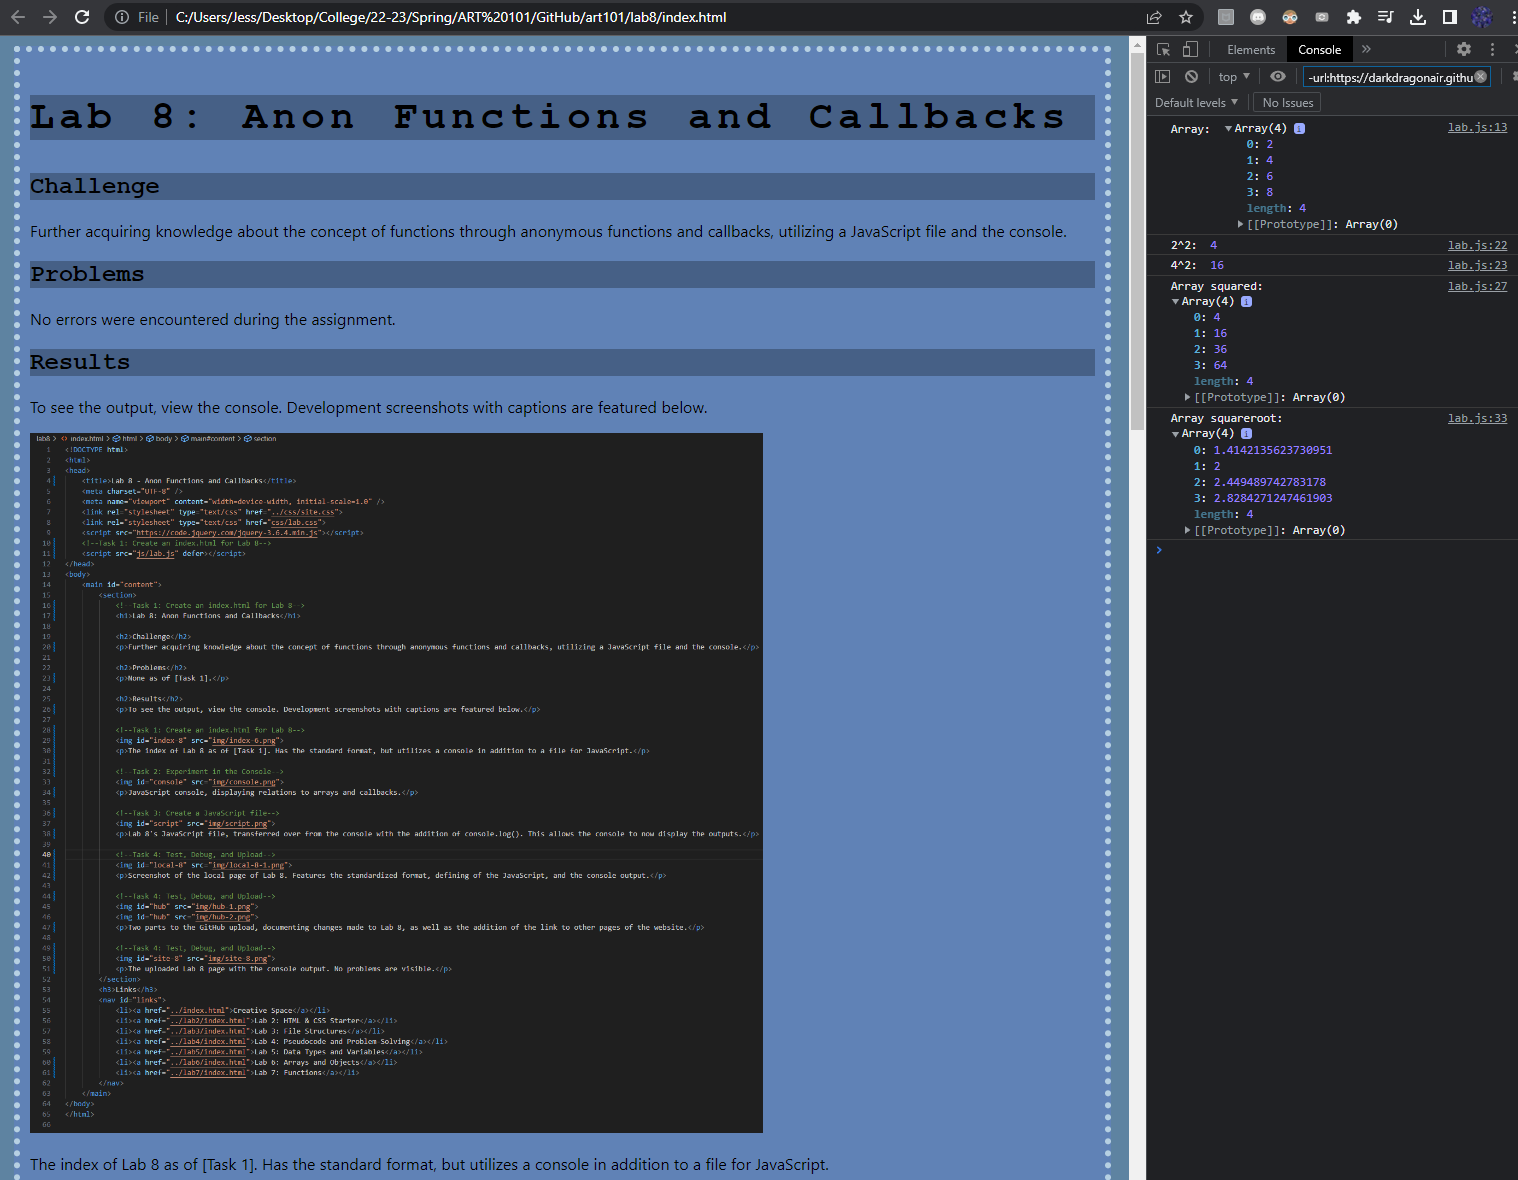
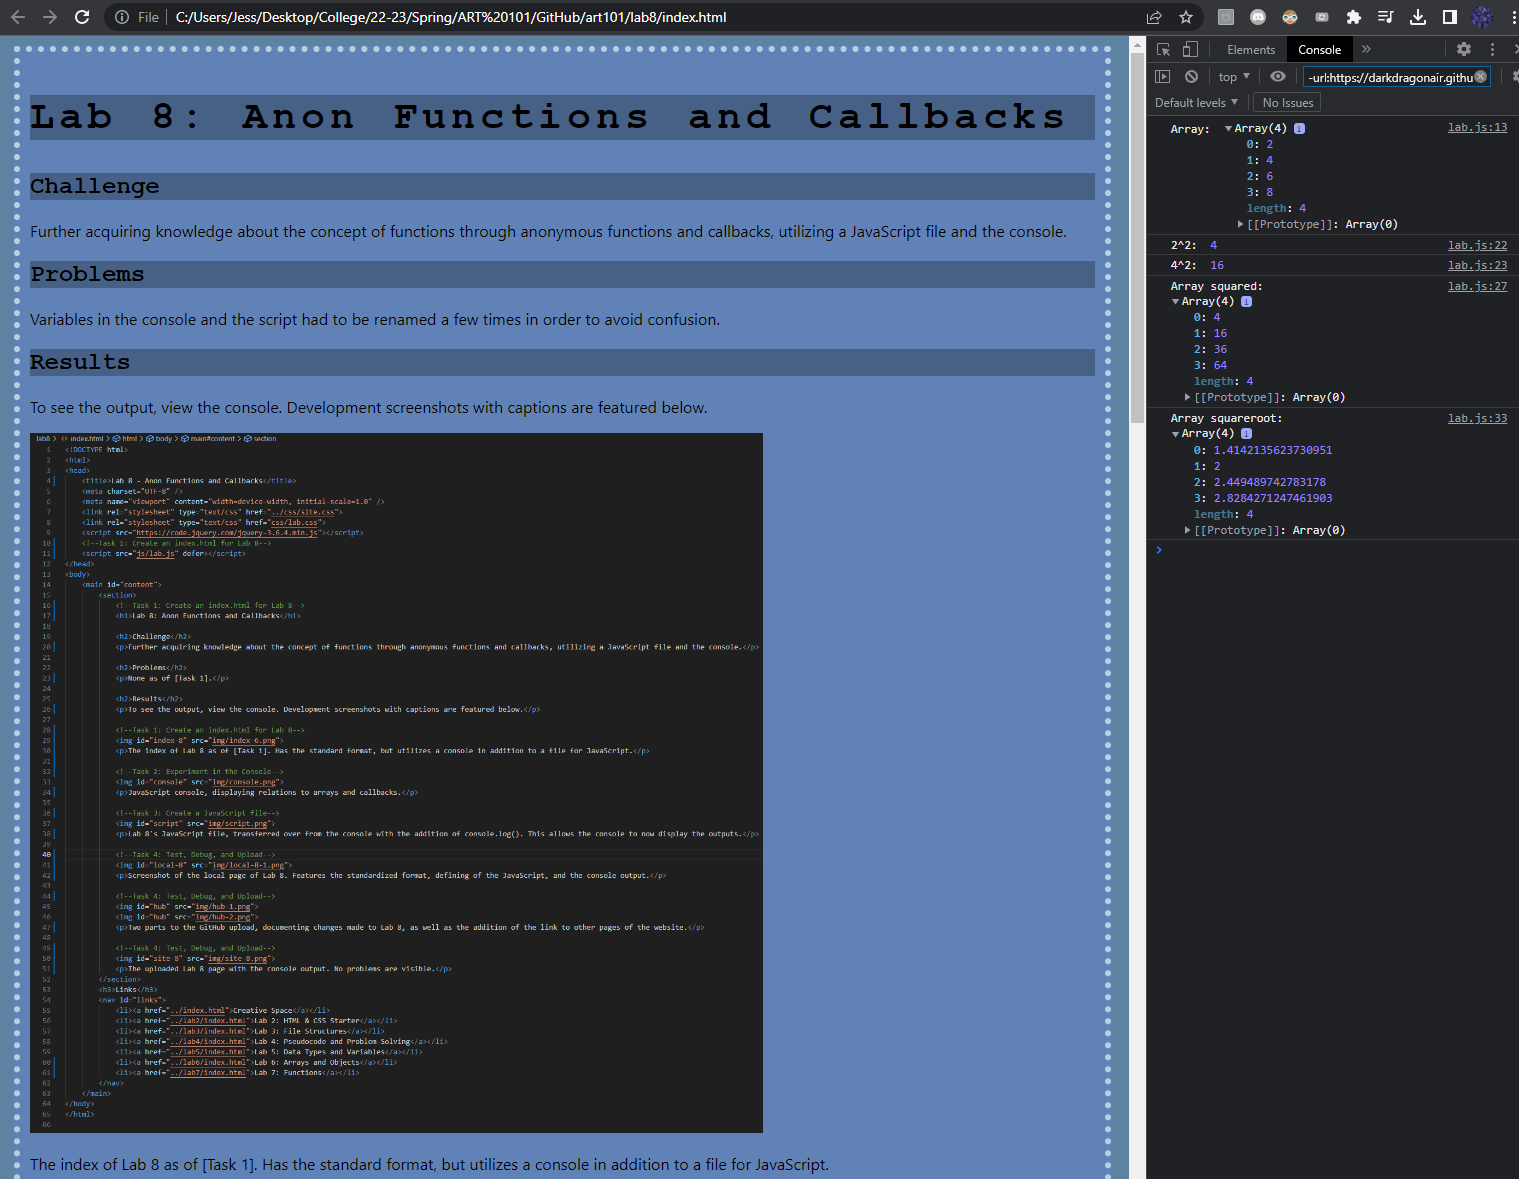
Lab 8, 4

diff --git a/lab8/index.html b/lab8/index.html
@@ -20,7 +20,7 @@
 			<p>Further acquiring knowledge about the concept of functions through anonymous functions and callbacks, utilizing a JavaScript file and the console.</p>
 
 			<h2>Problems</h2>
-			<p>No errors were encountered during the assignment.</p>
+			<p>Variables in the console and the script had to be renamed a few times in order to avoid confusion.</p>
 
 			<h2>Results</h2>
 			<p>To see the output, view the console. Development screenshots with captions are featured below.</p>
